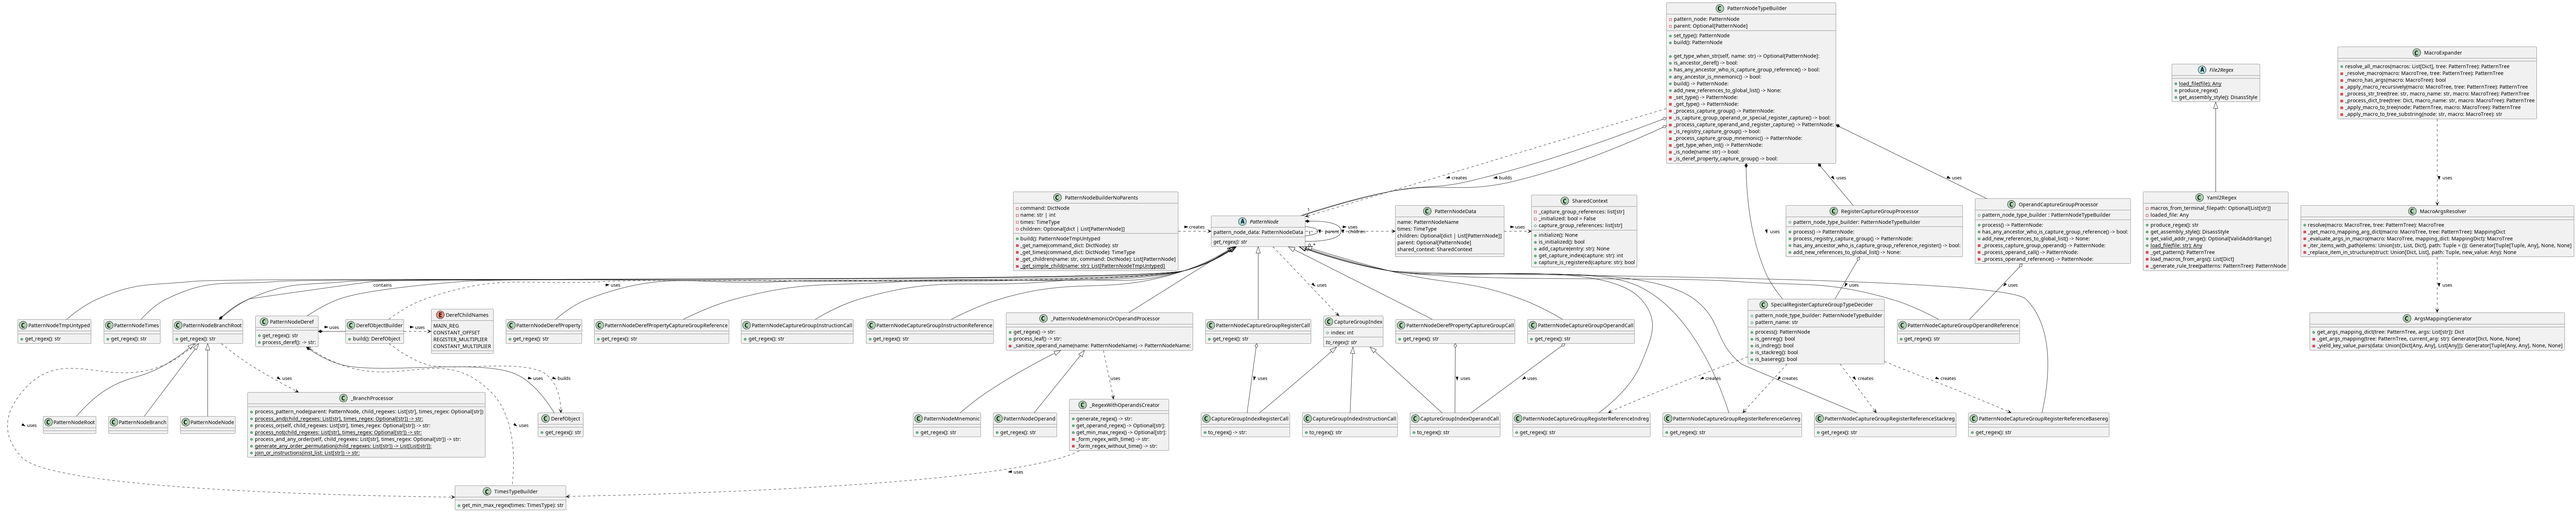
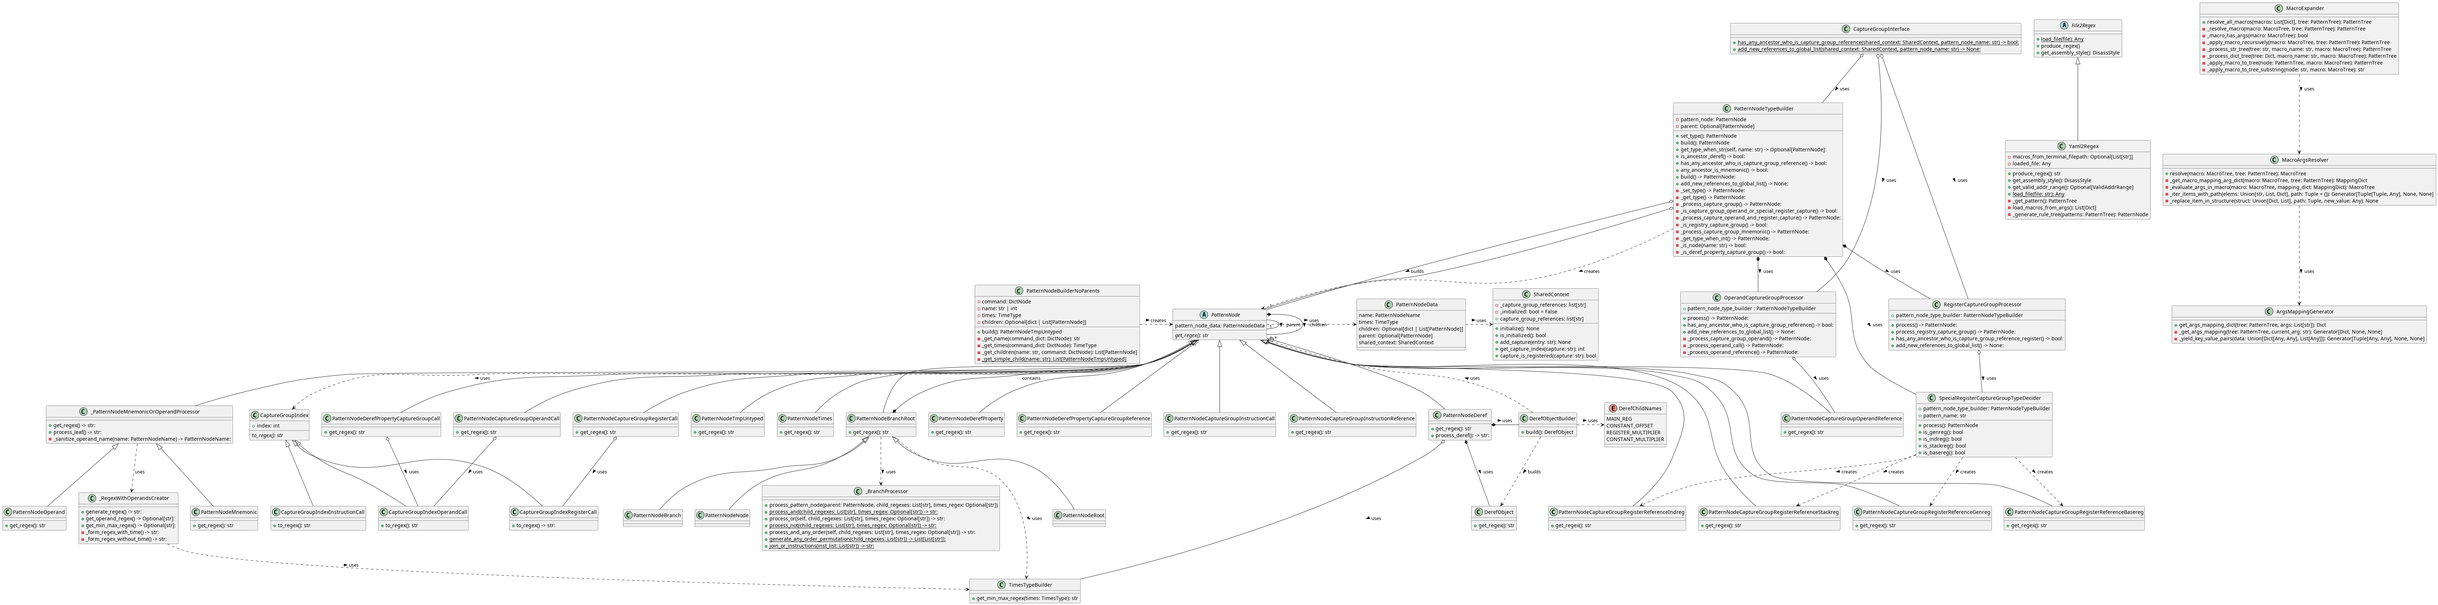
Transform common.py into CaptureGroupInterface and add this to class design

diff --git a/src/jasm/regex/tree_generators/pattern_node_type_builder/register_capture_group_processor.py b/src/jasm/regex/tree_generators/pattern_node_type_builder/register_capture_group_processor.py
@@ -5,10 +5,7 @@ from jasm.regex.tree_generators.pattern_node_abstract import PatternNode
 from jasm.regex.tree_generators.pattern_node_implementations.capture_group.capture_group_register import (
     PatternNodeCaptureGroupRegisterCall,
 )
-from jasm.regex.tree_generators.pattern_node_type_builder.common import (
-    add_new_references_to_global_list,
-    has_any_ancestor_who_is_capture_group_reference,
-)
+from jasm.regex.tree_generators.pattern_node_type_builder.capture_group_interface import CaptureGroupInterface
 from jasm.regex.tree_generators.pattern_node_type_builder.special_register_capture_group_type_decider import (
     SpecialRegisterCaptureGroupTypeDecider,
 )
@@ -41,7 +38,7 @@ class RegisterCaptureGroupProcessor:
         assert isinstance(self.pattern_node_type_builder.pattern_node.name, str)
         main_reference_name = remove_access_suffix(pattern_name=self.pattern_node_type_builder.pattern_node.name)
 
-        return has_any_ancestor_who_is_capture_group_reference(
+        return CaptureGroupInterface().has_any_ancestor_who_is_capture_group_reference(
             shared_context=self.pattern_node_type_builder.pattern_node.shared_context,
             pattern_node_name=main_reference_name,
         )
@@ -54,7 +51,7 @@ class RegisterCaptureGroupProcessor:
             pattern_name=self.pattern_node_type_builder.pattern_node.name
         )
 
-        add_new_references_to_global_list(
+        CaptureGroupInterface().add_new_references_to_global_list(
             shared_context=self.pattern_node_type_builder.pattern_node.shared_context,
             pattern_node_name=pattern_node_name_without_suffix,
         )

diff --git a/src/jasm/regex/tree_generators/pattern_node_type_builder/operand_capture_group_processor.py b/src/jasm/regex/tree_generators/pattern_node_type_builder/operand_capture_group_processor.py
@@ -5,10 +5,7 @@ from jasm.regex.tree_generators.pattern_node_implementations.capture_group.captu
     PatternNodeCaptureGroupOperandCall,
     PatternNodeCaptureGroupOperandReference,
 )
-from jasm.regex.tree_generators.pattern_node_type_builder.common import (
-    add_new_references_to_global_list,
-    has_any_ancestor_who_is_capture_group_reference,
-)
+from jasm.regex.tree_generators.pattern_node_type_builder.capture_group_interface import CaptureGroupInterface
 
 # Used this to import PatternNodeTypeBuilder type hint avoiding circular import
 if TYPE_CHECKING:
@@ -34,7 +31,7 @@ class OperandCaptureGroupProcessor:
         "Check if any ancestor is a capture group reference"
 
         assert isinstance(self.pattern_node.pattern_node.name, str)
-        return has_any_ancestor_who_is_capture_group_reference(
+        return CaptureGroupInterface().has_any_ancestor_who_is_capture_group_reference(
             shared_context=self.pattern_node.pattern_node.shared_context,
             pattern_node_name=self.pattern_node.pattern_node.name,
         )
@@ -52,7 +49,7 @@ class OperandCaptureGroupProcessor:
         """Add new references to global list"""
 
         assert isinstance(self.pattern_node.pattern_node.name, str)
-        add_new_references_to_global_list(
+        CaptureGroupInterface().add_new_references_to_global_list(
             shared_context=self.pattern_node.pattern_node.shared_context,
             pattern_node_name=self.pattern_node.pattern_node.name,
         )

diff --git a/src/jasm/regex/tree_generators/pattern_node_type_builder/pattern_node_type_builder.py b/src/jasm/regex/tree_generators/pattern_node_type_builder/pattern_node_type_builder.py
@@ -21,10 +21,7 @@ from jasm.regex.tree_generators.pattern_node_implementations.node_branch_root im
     PatternNodeTimes,
 )
 from jasm.regex.tree_generators.pattern_node_tmp_untyped import PatternNodeTmpUntyped
-from jasm.regex.tree_generators.pattern_node_type_builder.common import (
-    add_new_references_to_global_list,
-    has_any_ancestor_who_is_capture_group_reference,
-)
+from jasm.regex.tree_generators.pattern_node_type_builder.capture_group_interface import CaptureGroupInterface
 from jasm.regex.tree_generators.pattern_node_type_builder.operand_capture_group_processor import (
     OperandCaptureGroupProcessor,
 )
@@ -196,7 +193,7 @@ class PatternNodeTypeBuilder:
         "Check if any ancestor is a capture group reference"
 
         assert isinstance(self.pattern_node.name, str)
-        return has_any_ancestor_who_is_capture_group_reference(
+        return CaptureGroupInterface().has_any_ancestor_who_is_capture_group_reference(
             shared_context=self.pattern_node.shared_context, pattern_node_name=self.pattern_node.name
         )
 
@@ -204,7 +201,7 @@ class PatternNodeTypeBuilder:
         "Add new references to global list"
 
         assert isinstance(self.pattern_node.name, str)
-        add_new_references_to_global_list(
+        CaptureGroupInterface().add_new_references_to_global_list(
             shared_context=self.pattern_node.shared_context, pattern_node_name=self.pattern_node.name
         )
 
